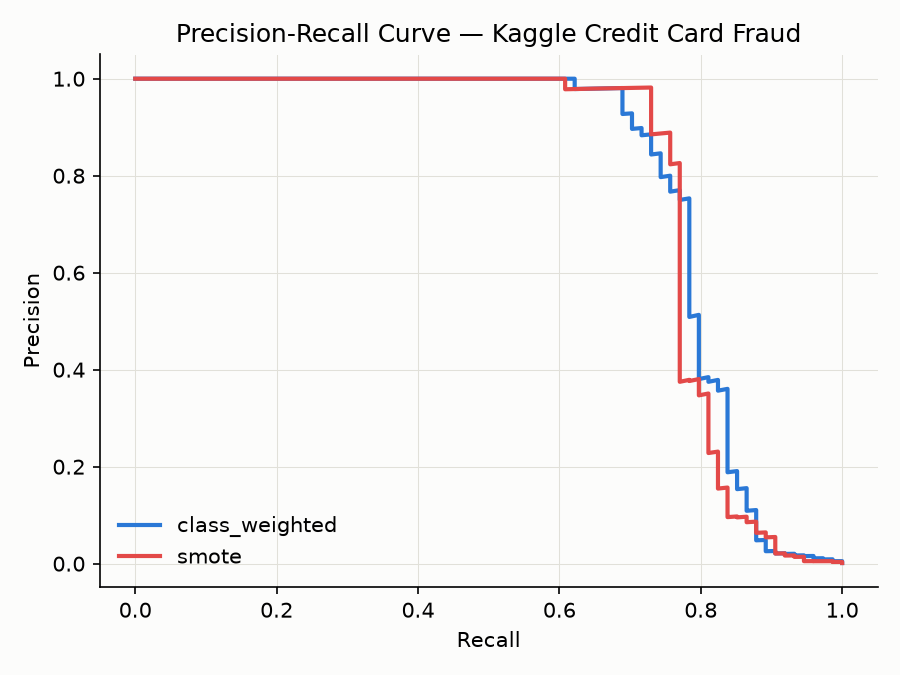
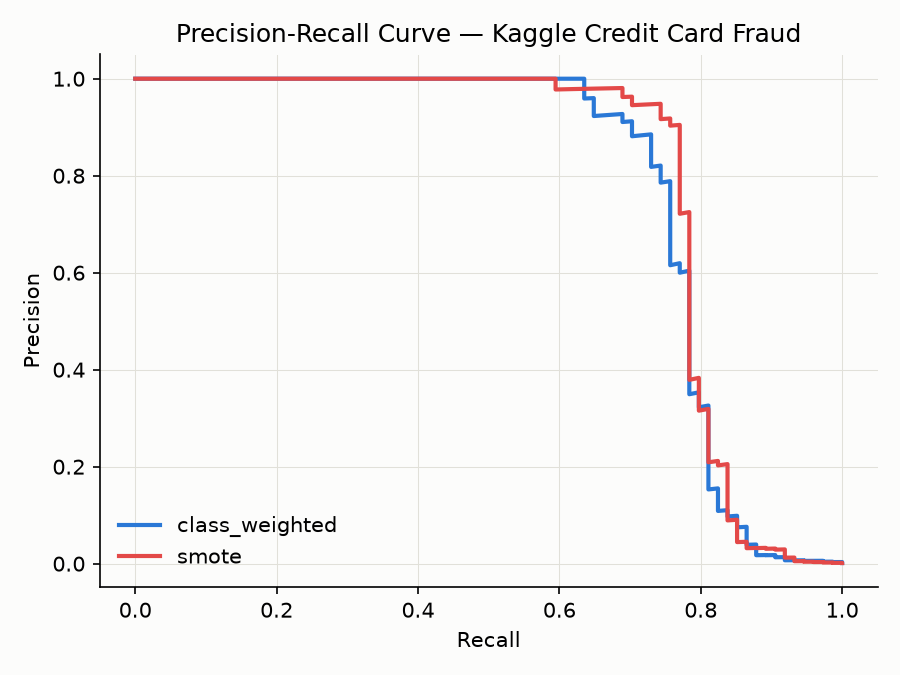
Select A/B test thresholds on validation instead of test
Thresholds for the shadow-mode A/B test are now searched on the
validation slice and evaluated on test, removing the leakage the old
'deliberate simplification' comment admitted to.

The comparison now uses a paired bootstrap: both policies score the same
transactions, so resampling transactions and differencing within each
one is the correct design. The old function resampled the two cost
arrays independently, ignoring their correlation and giving a 3-6x wider
interval; it is kept and its CI reported alongside for reference.

Adds a second comparison: the best Platt-calibrated policy (chosen by
validation cost) at the analytic threshold vs raw class-weighting.

Changed region(s): [[0.6222, 0.0933, 0.9333, 0.84]]

diff --git a/src/models/ab_test.py b/src/models/ab_test.py
@@ -79,6 +79,50 @@ def bootstrap_cost_difference(
     }
 
 
+def paired_bootstrap_cost_difference(
+    cost_a: np.ndarray,
+    cost_b: np.ndarray,
+    n_bootstrap: int = AB_TEST_BOOTSTRAP_SAMPLES,
+    confidence_level: float = AB_TEST_CONFIDENCE_LEVEL,
+    random_state: int = RANDOM_STATE,
+) -> dict:
+    """Paired bootstrap of the mean cost difference (A - B).
+
+    In shadow mode both policies score the *same* transactions, so the data
+    is paired: resample transactions (one index draw), and take the
+    per-transaction difference d_i = cost_a_i - cost_b_i. Transactions where
+    the policies agree have d_i = 0 and add no noise, so only disagreements
+    drive the interval. The unpaired `bootstrap_cost_difference` resamples
+    the two arrays independently, which ignores how strongly the two costs
+    are correlated (both policies miss the same hard frauds) and gives a far
+    wider interval. This is the bootstrap analogue of a paired t-test vs a
+    two-sample t-test.
+    """
+    cost_a, cost_b = np.asarray(cost_a, dtype=float), np.asarray(cost_b, dtype=float)
+    if cost_a.shape != cost_b.shape:
+        raise ValueError("paired comparison needs one cost per transaction for each policy")
+    diff = cost_a - cost_b
+    rng = np.random.default_rng(random_state)
+
+    batch_size = min(n_bootstrap, 200)  # see bootstrap_cost_difference on memory
+    diffs = np.empty(n_bootstrap)
+    for start in range(0, n_bootstrap, batch_size):
+        end = min(start + batch_size, n_bootstrap)
+        idx = rng.integers(0, len(diff), size=(end - start, len(diff)))
+        diffs[start:end] = diff[idx].mean(axis=1)
+
+    alpha = 1 - confidence_level
+    ci_lower, ci_upper = np.percentile(diffs, [100 * alpha / 2, 100 * (1 - alpha / 2)])
+
+    return {
+        "point_estimate": float(diff.mean()),
+        "ci_lower": float(ci_lower),
+        "ci_upper": float(ci_upper),
+        "confidence_level": confidence_level,
+        "n_discordant": int(np.count_nonzero(diff)),
+    }
+
+
 def compare_policies(
     y_true: pd.Series,
     y_pred_a: np.ndarray,
@@ -86,12 +130,17 @@ def compare_policies(
     label_a: str = "smote",
     label_b: str = "class_weighted",
 ) -> dict:
-    """Full shadow-mode comparison: expected cost per policy, bootstrapped CI on
-    the difference, and whether it's statistically distinguishable from noise.
+    """Full shadow-mode comparison: expected cost per policy, paired
+    bootstrapped CI on the difference, and whether it's statistically
+    distinguishable from noise.
+
+    The unpaired CI is returned alongside for reference only, to show how
+    much the paired design narrows the interval (Phase 3 originally used it).
     """
     cost_a = per_transaction_cost(y_true, y_pred_a)
     cost_b = per_transaction_cost(y_true, y_pred_b)
-    bootstrap_result = bootstrap_cost_difference(cost_a, cost_b)
+    bootstrap_result = paired_bootstrap_cost_difference(cost_a, cost_b)
+    unpaired = bootstrap_cost_difference(cost_a, cost_b)
 
     # CI excludes zero => the cost difference is distinguishable from noise
     # at this confidence level, not just a coin-flip in which policy is bigger.
@@ -106,19 +155,47 @@ def compare_policies(
         "relative_effect_size": float(relative_effect_size),
         "statistically_significant": bool(significant),
         **bootstrap_result,
+        "unpaired_ci_lower": float(unpaired["ci_lower"]),
+        "unpaired_ci_upper": float(unpaired["ci_upper"]),
     }
+
+
+
+
+def _print_comparison(title: str, comparison: dict) -> None:
+    a, b = comparison["label_a"], comparison["label_b"]
+    print(f"\n[shadow-mode A/B test: {title}]")
+    print(f"  mean cost/txn — {a}: {comparison['mean_cost_a']:.4f}, {b}: {comparison['mean_cost_b']:.4f}")
+    print(
+        f"  point estimate ({a} - {b}): {comparison['point_estimate']:.4f} "
+        f"({comparison['relative_effect_size']:.1%} relative effect size)"
+    )
+    print(f"  transactions where the policies disagree: {comparison['n_discordant']}")
+    print(
+        f"  {comparison['confidence_level']:.0%} paired bootstrap CI: "
+        f"[{comparison['ci_lower']:.4f}, {comparison['ci_upper']:.4f}]"
+    )
+    print(
+        f"  (unpaired CI, reference only: "
+        f"[{comparison['unpaired_ci_lower']:.4f}, {comparison['unpaired_ci_upper']:.4f}])"
+    )
+    print(f"  statistically significant: {comparison['statistically_significant']}")
 
 
 if __name__ == "__main__":
     import joblib
+    import polars as pl
 
     from src.config import (
+        CALIBRATION_METHOD,
         MODEL_ARTIFACT_CLASS_WEIGHTED_FILE,
         MODEL_ARTIFACT_SMOTE_FILE,
+        MODEL_ARTIFACT_UNWEIGHTED_FILE,
         REPORTS_DIR,
     )
     from src.data.load import scan_raw_data
-    from src.data.preprocess import clean, time_aware_split
+    from src.data.preprocess import clean, time_aware_train_val_test_split
+    from src.models.calibrate import Calibrator, analytic_threshold
     from src.models.evaluate import (
         confusion_counts,
         expected_cost,
@@ -129,78 +206,107 @@ if __name__ == "__main__":
     )
     from src.models.train import log_experiment
 
-    print("Loading held-out Kaggle test set and both trained policies...")
-    _, test_lf = time_aware_split(clean(scan_raw_data()))
-    test_df = test_lf.collect().to_pandas()
+    # Every choice (thresholds, calibrator, which calibrated policy) is made
+    # on the validation slice; test is used only to evaluate those choices.
+    print("Loading the validation and test slices and the trained policies...")
+    _, val_df, test_df = (
+        df.to_pandas()
+        for df in pl.collect_all(time_aware_train_val_test_split(clean(scan_raw_data())))
+    )
+    X_val, y_val = val_df.drop(columns=["Class"]), val_df["Class"]
     X_test, y_test = test_df.drop(columns=["Class"]), test_df["Class"]
+    naive_cost = expected_cost(y_test, np.zeros(len(y_test), dtype=int))
 
-    policies = {
+    models = {
+        "unweighted": joblib.load(MODEL_ARTIFACT_UNWEIGHTED_FILE),
         "class_weighted": joblib.load(MODEL_ARTIFACT_CLASS_WEIGHTED_FILE),
         "smote": joblib.load(MODEL_ARTIFACT_SMOTE_FILE),
     }
 
-    proba_by_policy: dict[str, np.ndarray] = {}
-    results: dict[str, dict] = {}
-
-    # Threshold is selected and evaluated on the same held-out test set here,
-    # a deliberate simplification for this portfolio project's single
-    # train/test split rather than carving out a third validation slice. In
-    # production this would be tuned on a separate validation window to
-    # avoid any risk of the operating point being tailored to this specific
-    # test set's noise.
-    naive_cost = expected_cost(y_test, np.zeros(len(y_test), dtype=int))
-
-    for label, model in policies.items():
-        proba = model.predict_proba(X_test)[:, 1]
-        proba_by_policy[label] = proba
-        threshold = select_cost_minimising_threshold(y_test, proba)
-        y_pred = (proba >= threshold).astype(int)
+    def summarise(
+        label: str, proba_test: np.ndarray, threshold: float, source: str = "chosen on validation"
+    ) -> dict:
+        y_pred = (proba_test >= threshold).astype(int)
         cost = expected_cost(y_test, y_pred)
-
-        results[label] = {
-            "pr_auc": pr_auc_score(y_test, proba),
+        result = {
+            "pr_auc": pr_auc_score(y_test, proba_test),
             "threshold": threshold,
             "expected_cost": cost,
             "cost_reduction_vs_naive": (naive_cost - cost) / naive_cost,
             "confusion_matrix": confusion_counts(y_test, y_pred),
             "y_pred": y_pred,
         }
-
         print(f"\n[{label}]")
-        print(f"  PR-AUC: {results[label]['pr_auc']:.4f}")
-        print(f"  cost-minimising threshold: {threshold:.2f}")
-        print(f"  expected cost: {cost:,.0f} (naive 'never flag' baseline: {naive_cost:,.0f})")
-        print(f"  cost reduction vs naive baseline: {results[label]['cost_reduction_vs_naive']:.1%}")
-        print(f"  confusion matrix: {results[label]['confusion_matrix']}")
+        print(f"  PR-AUC (test): {result['pr_auc']:.4f}")
+        print(f"  threshold ({source}): {threshold:.4f}")
+        print(f"  expected cost (test): {cost:,.0f} (naive 'never flag' baseline: {naive_cost:,.0f})")
+        print(f"  cost reduction vs naive baseline: {result['cost_reduction_vs_naive']:.1%}")
+        print(f"  confusion matrix: {result['confusion_matrix']}")
+        return result
 
+    # --- Comparison 1: raw SMOTE vs raw class-weighting (the Phase 3 test,
+    # now with thresholds searched on validation instead of test). ---------
+    results: dict[str, dict] = {}
+    proba_by_policy: dict[str, np.ndarray] = {}
+    for label in ("class_weighted", "smote"):
+        model = models[label]
+        threshold = select_cost_minimising_threshold(y_val, model.predict_proba(X_val)[:, 1])
+        proba_by_policy[label] = model.predict_proba(X_test)[:, 1]
+        results[label] = summarise(label, proba_by_policy[label], threshold)
         plot_confusion_matrix(
             y_test,
-            y_pred,
+            results[label]["y_pred"],
             REPORTS_DIR / f"confusion_matrix_{label}.png",
             title=f"{label} @ threshold={threshold:.2f}",
         )
-
     plot_precision_recall_curves(y_test, proba_by_policy, REPORTS_DIR / "pr_curve_kaggle.png")
 
-    comparison = compare_policies(
+    raw_comparison = compare_policies(
         y_test,
         results["smote"]["y_pred"],
         results["class_weighted"]["y_pred"],
         label_a="smote",
         label_b="class_weighted",
     )
+    _print_comparison("smote vs. class_weighted (raw scores)", raw_comparison)
 
-    print("\n[shadow-mode A/B test: smote vs. class_weighted]")
-    print(f"  mean cost/txn — smote: {comparison['mean_cost_a']:.4f}, class_weighted: {comparison['mean_cost_b']:.4f}")
-    print(
-        f"  point estimate (smote - class_weighted): {comparison['point_estimate']:.4f} "
-        f"({comparison['relative_effect_size']:.1%} relative effect size)"
+    # --- Comparison 2: best calibrated policy at the analytic threshold vs
+    # raw class-weighting at its validation threshold. "Best" = lowest
+    # validation cost at the analytic threshold, so test plays no part. ----
+    t_star = analytic_threshold()
+    calibrators = {
+        name: Calibrator.fit(CALIBRATION_METHOD, model, X_val, y_val)
+        for name, model in models.items()
+    }
+    val_costs = {
+        name: expected_cost(
+            y_val, (calibrators[name].predict_proba(models[name], X_val) >= t_star).astype(int)
+        )
+        for name in models
+    }
+    best = min(val_costs, key=val_costs.get)
+    print(f"\nValidation cost at the analytic threshold ({t_star:.4f}), {CALIBRATION_METHOD}-calibrated:")
+    for name, cost in val_costs.items():
+        print(f"  {name}: {cost:,.0f}" + ("  <- chosen" if name == best else ""))
+
+    calibrated_label = f"{best}_{CALIBRATION_METHOD}"
+    results[calibrated_label] = summarise(
+        calibrated_label,
+        calibrators[best].predict_proba(models[best], X_test),
+        t_star,
+        source="analytic, fp / (fp + fn)",
     )
-    print(
-        f"  {comparison['confidence_level']:.0%} bootstrap CI: "
-        f"[{comparison['ci_lower']:.4f}, {comparison['ci_upper']:.4f}]"
+    calibrated_comparison = compare_policies(
+        y_test,
+        results[calibrated_label]["y_pred"],
+        results["class_weighted"]["y_pred"],
+        label_a=calibrated_label,
+        label_b="class_weighted",
     )
-    print(f"  statistically significant: {comparison['statistically_significant']}")
+    _print_comparison(
+        f"{calibrated_label} @ analytic threshold vs. class_weighted (raw)",
+        calibrated_comparison,
+    )
 
     log_experiment(
         "shadow_mode_ab_test",
@@ -209,11 +315,18 @@ if __name__ == "__main__":
             "fp_cost": COST_FALSE_POSITIVE,
             "n_bootstrap": AB_TEST_BOOTSTRAP_SAMPLES,
             "confidence_level": AB_TEST_CONFIDENCE_LEVEL,
+            "bootstrap": "paired",
+            "threshold_selection": "validation",
+            "calibration_method": CALIBRATION_METHOD,
         },
         metrics={
-            "class_weighted": {k: v for k, v in results["class_weighted"].items() if k != "y_pred"},
-            "smote": {k: v for k, v in results["smote"].items() if k != "y_pred"},
-            "comparison": {k: v for k, v in comparison.items()},
+            **{
+                label: {k: v for k, v in result.items() if k != "y_pred"}
+                for label, result in results.items()
+            },
+            "validation_cost_at_analytic_threshold": val_costs,
+            "comparison_raw": raw_comparison,
+            "comparison_calibrated": calibrated_comparison,
             "naive_baseline_cost": naive_cost,
         },
     )

diff --git a/tests/test_ab_test.py b/tests/test_ab_test.py
@@ -1,10 +1,12 @@
 """Sanity checks for the shadow-mode A/B comparison logic on synthetic data."""
 
 import numpy as np
+import pytest
 
 from src.models.ab_test import (
     bootstrap_cost_difference,
     compare_policies,
+    paired_bootstrap_cost_difference,
     per_transaction_cost,
 )
 
@@ -65,3 +67,44 @@ def test_compare_policies_identical_predictions_are_not_significant() -> None:
 
     assert result["point_estimate"] == 0.0
     assert result["statistically_significant"] is False
+
+
+def _correlated_costs(seed: int = 0) -> tuple[np.ndarray, np.ndarray]:
+    """Two policies that agree almost everywhere; A avoids 200 of B's £5 FPs.
+
+    Known truth: A is cheaper by exactly 200 * 5 / n per transaction. The
+    occasional £100 misses are shared by both policies, so they add a lot of
+    noise to each policy's cost but none to the difference.
+    """
+    rng = np.random.default_rng(seed)
+    n = 20_000
+    cost_b = rng.choice([0.0, 5.0, 100.0], size=n, p=[0.97, 0.02, 0.01])
+    cost_a = cost_b.copy()
+    fp_rows = np.flatnonzero(cost_b == 5.0)[:200]
+    cost_a[fp_rows] = 0.0
+    return cost_a, cost_b
+
+
+def test_paired_bootstrap_detects_small_effect_that_unpaired_misses() -> None:
+    cost_a, cost_b = _correlated_costs()
+
+    paired = paired_bootstrap_cost_difference(cost_a, cost_b, n_bootstrap=2_000)
+    unpaired = bootstrap_cost_difference(cost_a, cost_b, n_bootstrap=2_000)
+
+    assert paired["point_estimate"] == pytest.approx(-200 * 5 / 20_000)
+    assert paired["ci_upper"] < 0  # paired design: clearly distinguishable
+    assert unpaired["ci_lower"] < 0 < unpaired["ci_upper"]  # unpaired: lost in noise
+    assert paired["n_discordant"] == 200
+
+
+def test_paired_bootstrap_of_identical_policies_is_exactly_zero() -> None:
+    cost = _correlated_costs()[1]
+
+    result = paired_bootstrap_cost_difference(cost, cost, n_bootstrap=500)
+
+    assert result["ci_lower"] == result["ci_upper"] == result["point_estimate"] == 0.0
+
+
+def test_paired_bootstrap_requires_matching_lengths() -> None:
+    with pytest.raises(ValueError):
+        paired_bootstrap_cost_difference(np.zeros(3), np.zeros(4))

diff --git a/src/config.py b/src/config.py
@@ -86,6 +86,11 @@ CALIBRATION_CONFIDENCE_LEVEL = 0.95  # Wilson intervals on per-bin fraud rates
 FINE_THRESHOLD_GRID_MIN = 1e-4
 FINE_THRESHOLD_GRID_MAX = 0.99
 FINE_THRESHOLD_GRID_SIZE = 500
+# Calibration method used downstream (A/B test). Chosen by 5-fold
+# cross-validated log loss on validation in src/models/calibration_report.py,
+# which picked Platt over isotonic for all three XGBoost variants (57
+# validation frauds are too few for isotonic's step function).
+CALIBRATION_METHOD = "platt"
 
 # --- Drift monitoring ---
 DRIFT_PSI_THRESHOLD = 0.2
